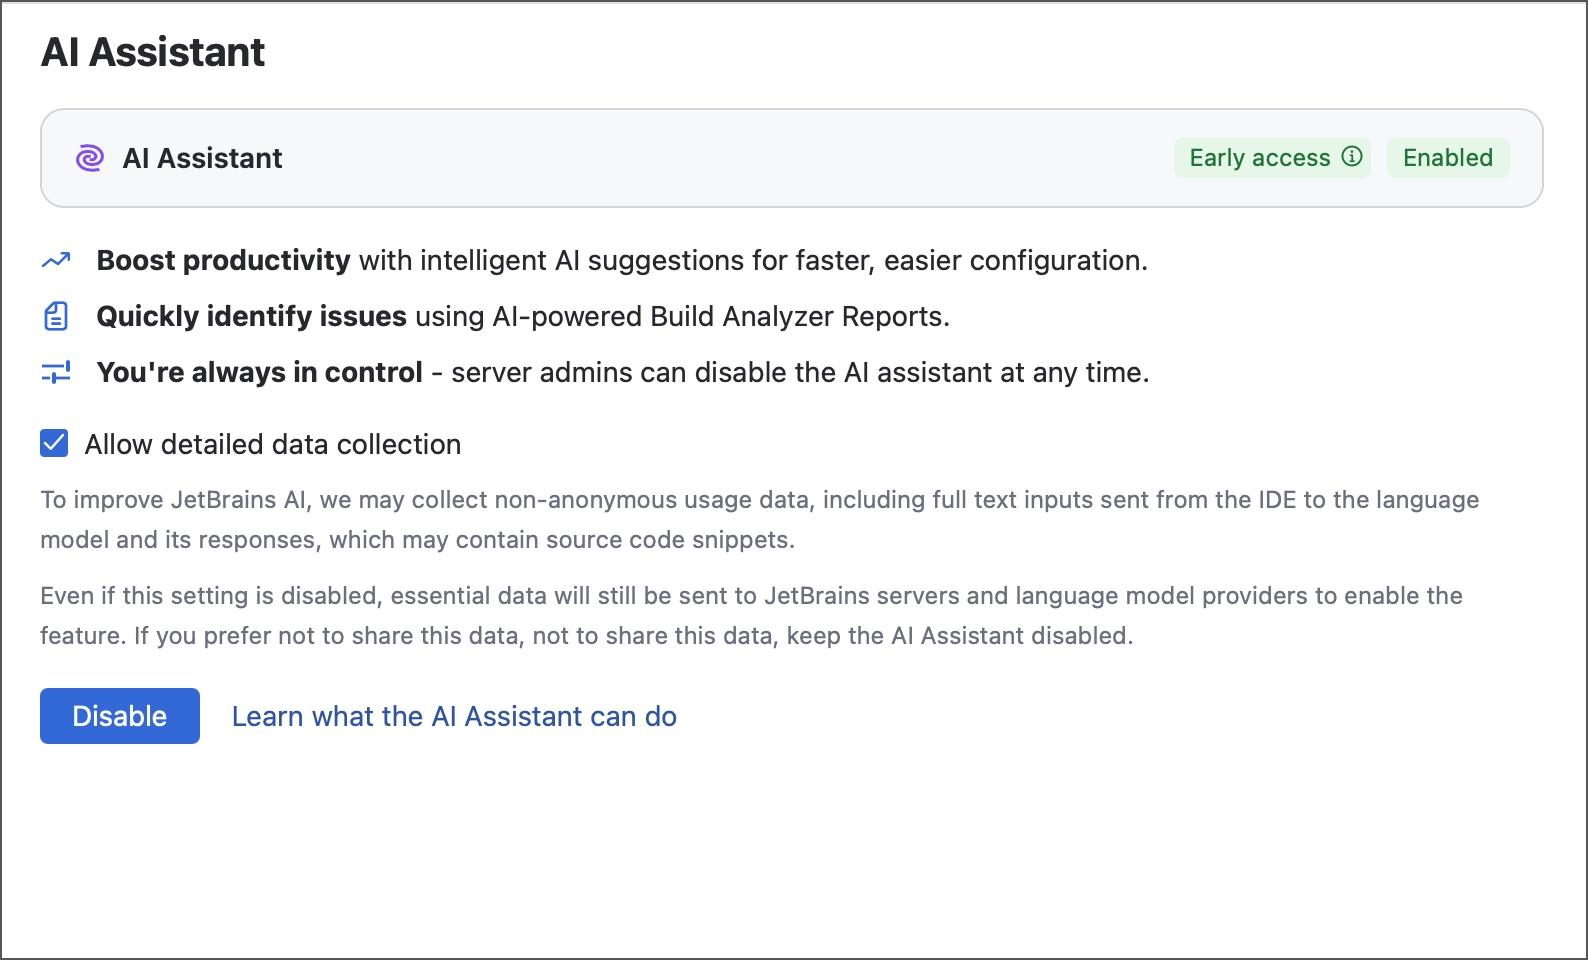
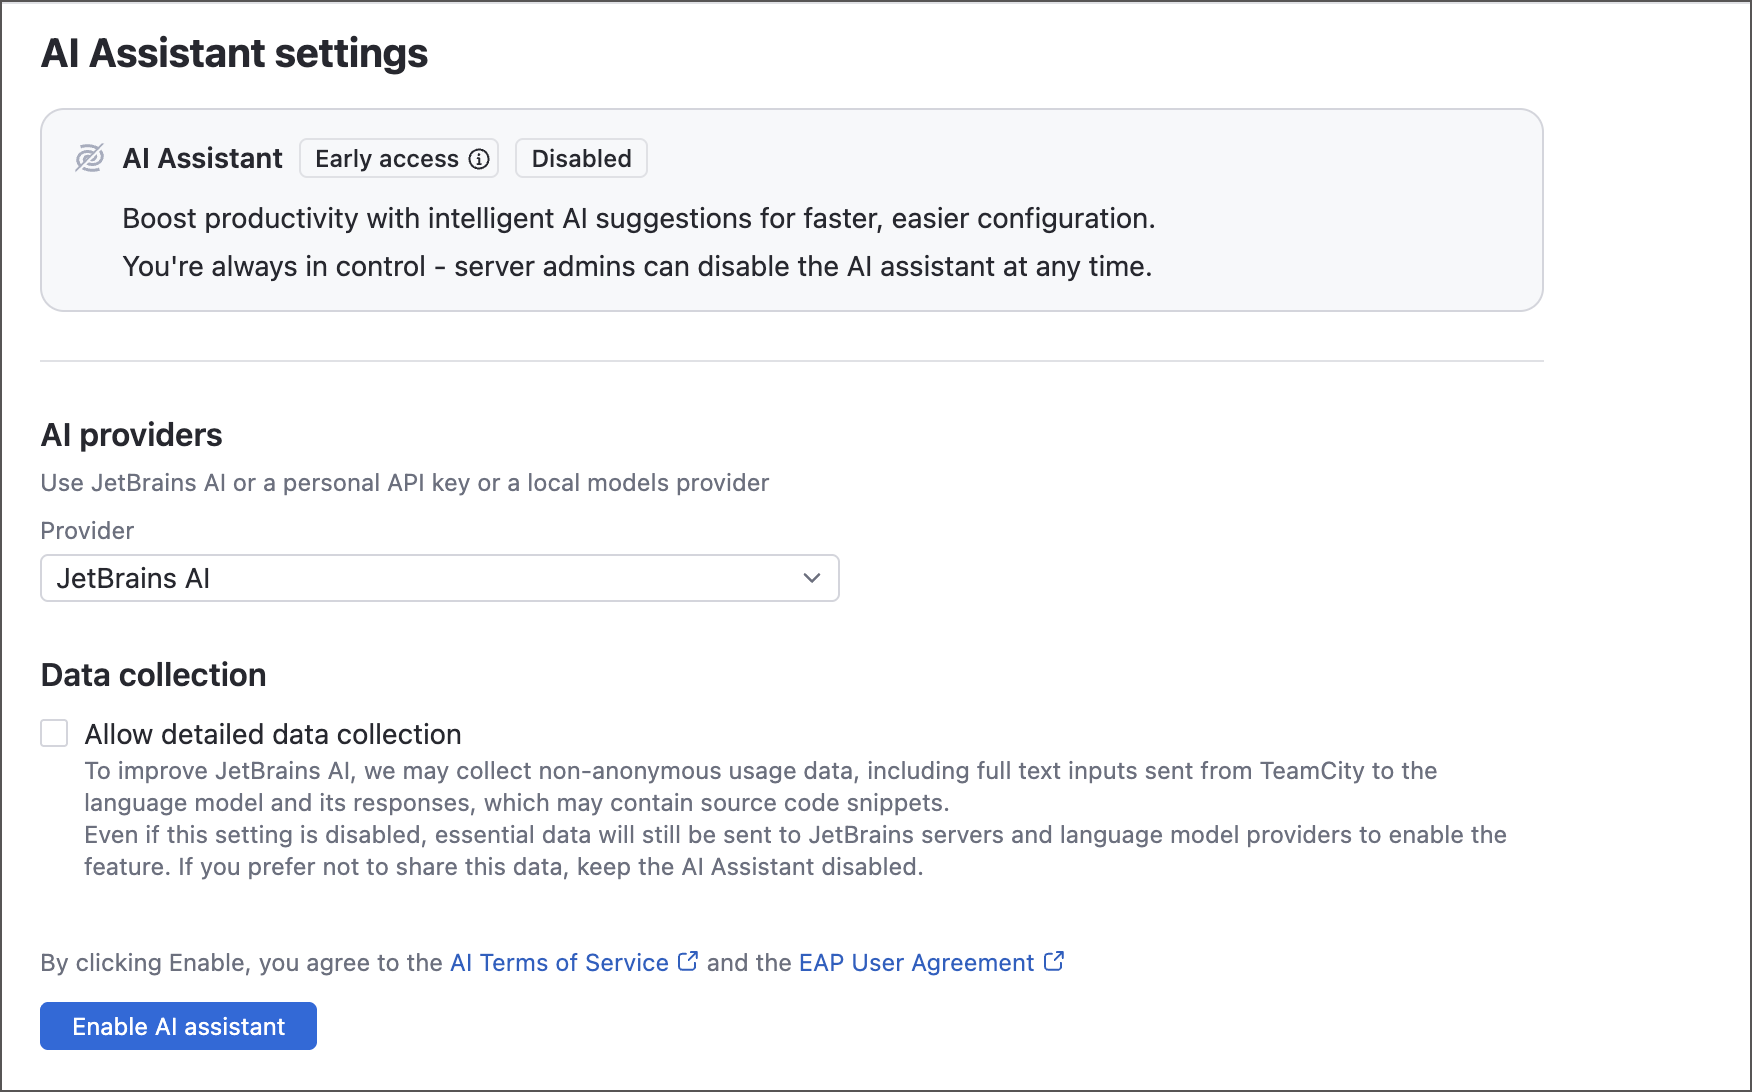
TW-101503 [DOC] Introduce BYOK option for AI Assistant

diff --git a/topics/ai-assistant.md b/topics/ai-assistant.md
@@ -20,19 +20,19 @@ This feature may become a paid option in future releases but will remain free th
 <br/>
 
 **Are there any additional requirements?**<br/>
-AI Assistant requires access to `https://auth.grazie.ai`, `https://api.jetbrains.ai`, and other resources to obtain authorization tokens, send user prompts and receive responses, publish usage statistics (if enabled), and more.
+AI Assistant requires outbound access to the endpoints of the selected provider to obtain authorization tokens, send user prompts, and receive responses. For the JetBrains AI provider, this includes `https://auth.grazie.ai`, `https://api.jetbrains.ai`, and other resources needed to publish usage statistics (if enabled) and more; other providers require access to their own endpoints instead. If your server uses a proxy or firewall, allow outbound access to the endpoints of whichever provider you configure.
 
 **What data does the Assistant collect and share?**<br/>
 See the [](#Privacy+Policy) section.
 
 
 **What model does TeamCity AI Assistant use?**<br/>
-At the 2025.11 version launch, the AI Assistant uses `gpt-4.1` to process user requests. As we evaluate its accuracy and performance, and carefully study your feedback, we may switch to another model available through [JetBrains AI](https://www.jetbrains.com/ai/). We also plan to add an option to manually select a model via the TeamCity UI in the next release cycles.
+By default, AI Assistant uses JetBrains AI. Starting with version 2026.2, you can also enter your own API key to connect AI Assistant to a third-party AI provider. The exact model used depends on internal TeamCity settings and is shown at the bottom of the Assistant panel. See [](#Providers) to learn more.
 
 
 ## Initial Setup
 
-AI Assistant ships with all TeamCity 2025.11 installations in a disabled state. To make sure you do not miss this exciting addition to TeamCity, AI Assistant keeps showing its menu item in TeamCity header even when disabled.
+AI Assistant ships with all TeamCity installations in a disabled state. To make sure you do not miss this exciting addition to TeamCity, AI Assistant keeps showing its menu item in TeamCity header even when disabled.
 
 <img src="ai-assistant-promo-disabled.png" width="706" alt="Disabled AI Assistant"/>
 
@@ -41,6 +41,19 @@ Server administrators can completely hide this element in the **Admin | AI Assis
 <img src="ai-assistant-admin-settings.png" width="706" alt="Server AI Assistant settings"/>
 
 The **Allow detailed data collection** checkbox allows TeamCity to privately share AI Assistant chat history with JetBrains. We never share this data with anyone and use it solely to improve the quality of the Assistant's responses.
+
+
+## Providers
+
+By default, AI Assistant uses JetBrains AI, a provider that works out of the box with no extra configuration — it is managed automatically through your JetBrains Account.
+
+Starting with TeamCity 2026.2, AI Assistant also supports the "bring your own key" (BYOK) concept that allows you to connect it to a third-party AI provider instead. If your organization provides centralized access to a specific AI provider, choose it under the **Provider** selector and enter your API key. The exact model depends on internal TeamCity settings and is displayed at the bottom of the Assistant panel.
+
+<img src="aia-anthropic.png" width="706" thumbnail="true" alt="AI Assistant using Anthropic models"/>
+
+Using Anthropic, Google, and OpenAI models requires only the API key. The **OpenAI-compatible** option additionally requires the provider endpoint and model ID — use it for OpenAI-compatible APIs (for example, DeepSeek) as well as self-hosted or locally deployed models.
+
+This setting is server-wide: your TeamCity server administrator configures the same provider for everybody, and there is currently no way for individual users to choose their own provider. [Let us know](ticket-based-support.md) if this or any other feature is something you're missing in the TeamCity Assistant.
 
 ## 'Analyze it' Button
 
@@ -66,8 +79,6 @@ See the following article for more information: [](ai-build-analyzer.md).
 
 * We continually work to improve the AI Assistant’s response quality and provide the most accurate context for its underlying model. Still, the inherent limitations of today’s generative AI models mean that occasional inaccuracies or information hallucinations are possible. If a response seems uncertain or inconsistent, consider rephrasing your question or checking it against a reliable source. Please treat the AI Assistant as a helpful aid, not a sole source of truth, and verify its suggestions when handling mission-critical tasks.
 {help-id="ai-errors-warning"}
-
-* The Assistant does not currently support [pipelines](create-and-edit-pipelines.md) and can only analyze and troubleshoot classic [build configurations](creating-and-editing-build-configurations.md).
 
 * Past conversations with the AI Assistant are not saved. When you start a new chat (via the "**+**" button in the chat window's top-right corner), you will lose access to the previous one.
 

diff --git a/topics/what-s-new-in-teamcity.md b/topics/what-s-new-in-teamcity.md
@@ -26,7 +26,7 @@ You can now test a single pipeline job without triggering the whole pipeline. Op
 
 <img src="debug-jobs.png" width="706" alt="Debug jobs"/>
 
-Learn more: [](create-and-edit-pipelines.md#Debug+Jobs).
+Learn more: [](create-and-edit-pipelines.md#Debug+Jobs)
 
 ### Improved Branch Handling
 
@@ -49,7 +49,7 @@ When setting up [job dependencies](job-settings.md#Dependencies), you can now en
 
 The pipeline run is still marked as failed overall, but this lets you guarantee that specific jobs (for example, cleanup or notification steps) always run.
 
-Learn more: [](job-settings.md#Dependencies).
+Learn more: [](job-settings.md#Dependencies)
 
 ## Rerun Failed Chain Builds
 
@@ -57,7 +57,37 @@ The **Dependencies** tab of build configuration settings now includes a **Retry 
 
 <img src="retry-dependency-settings.png" width="706" alt="Rerun failed dependencies"/>
 
-Learn more: [](configuring-dependencies.md#Re-run+failed+chain+builds).
+Learn more: [](configuring-dependencies.md#Re-run+failed+chain+builds)
+
+
+
+
+
+## TeamCity AI
+
+We add AI to TeamCity where it solves an actual CI/CD problem, and leave the rest of the decisions to you. AI features stay off until a server administrator enables them, and starting with this release, you also choose which AI provider stands behind them.
+
+### AI Assistant
+
+Starting with TeamCity 2026.2, you're no longer limited to the built-in JetBrains AI: AI Assistant now supports "bring your own key" (BYOK), letting you connect it to a third-party AI provider your organization already has access to. Choose a provider under the **Provider** selector and enter your API key, and AI Assistant will run on that model instead. The bottom of the Assistant panel always shows which model is currently active.
+
+<img src="aia-anthropic.png" width="706" thumbnail="true" alt="AI Assistant using Anthropic models"/>
+
+In addition, AI Assistant now works with pipelines, not just classic build configurations.
+
+Learn more: [](ai-assistant.md#Providers)
+
+### MCP Improvements
+
+TeamCity's MCP server now exposes three new tools for managing [pipelines](create-and-edit-pipelines.md) — retrieve, edit, or delete them straight from your AI agent. You can also connect using OAuth instead of pre-configuring a personal access token.
+
+<img src="air-mcp-oauth.png" width="706" alt="OAuth authentication for TeamCity MCP"/>
+
+Learn more: [](ai-agent-integration.md#TeamCity+MCP).
+
+
+
+
 
 
 
@@ -65,16 +95,10 @@ Learn more: [](configuring-dependencies.md#Re-run+failed+chain+builds).
 
 The [Pull Requests](pull-requests.md#GitHub+Pull+Requests) build feature can now match pull requests by their source branch instead of their branch reference. This lets TeamCity recognize separate pull requests in different repositories as related changes and build them together in the same build chain, even when GitHub assigns them different pull request numbers.
 
-Learn more: [GitHub pull requests](pull-requests.md#GitHub+Pull+Requests).
+Learn more: [GitHub pull requests](pull-requests.md#GitHub+Pull+Requests)
 
 
-## MCP Improvements
 
-TeamCity's MCP server now exposes three new tools for managing [pipelines](create-and-edit-pipelines.md) — retrieve, edit, or delete them straight from your AI agent. You can also connect using OAuth instead of pre-configuring a personal access token.
-
-<img src="air-mcp-oauth.png" width="706" alt="OAuth authentication for TeamCity MCP"/>
-
-Learn more: [](ai-agent-integration.md#TeamCity+MCP).
 
 
 ## Miscellaneous Enhancements
